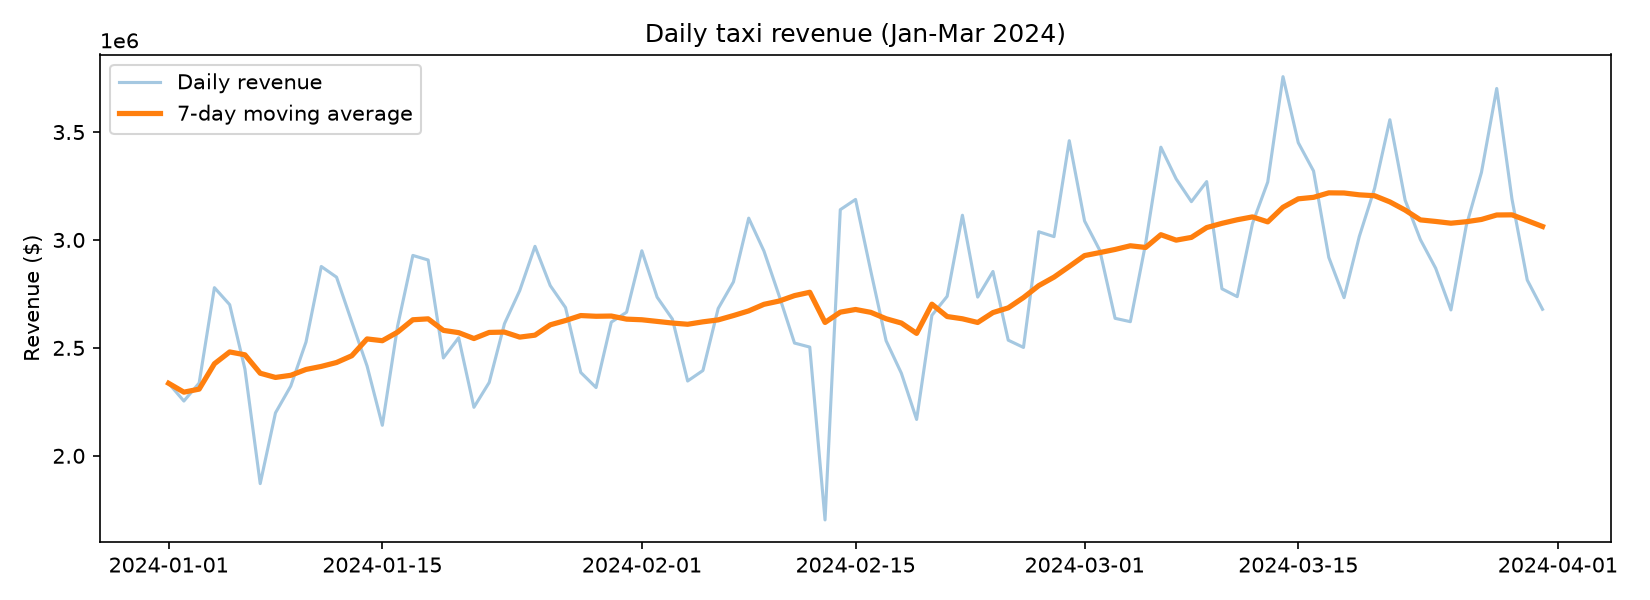
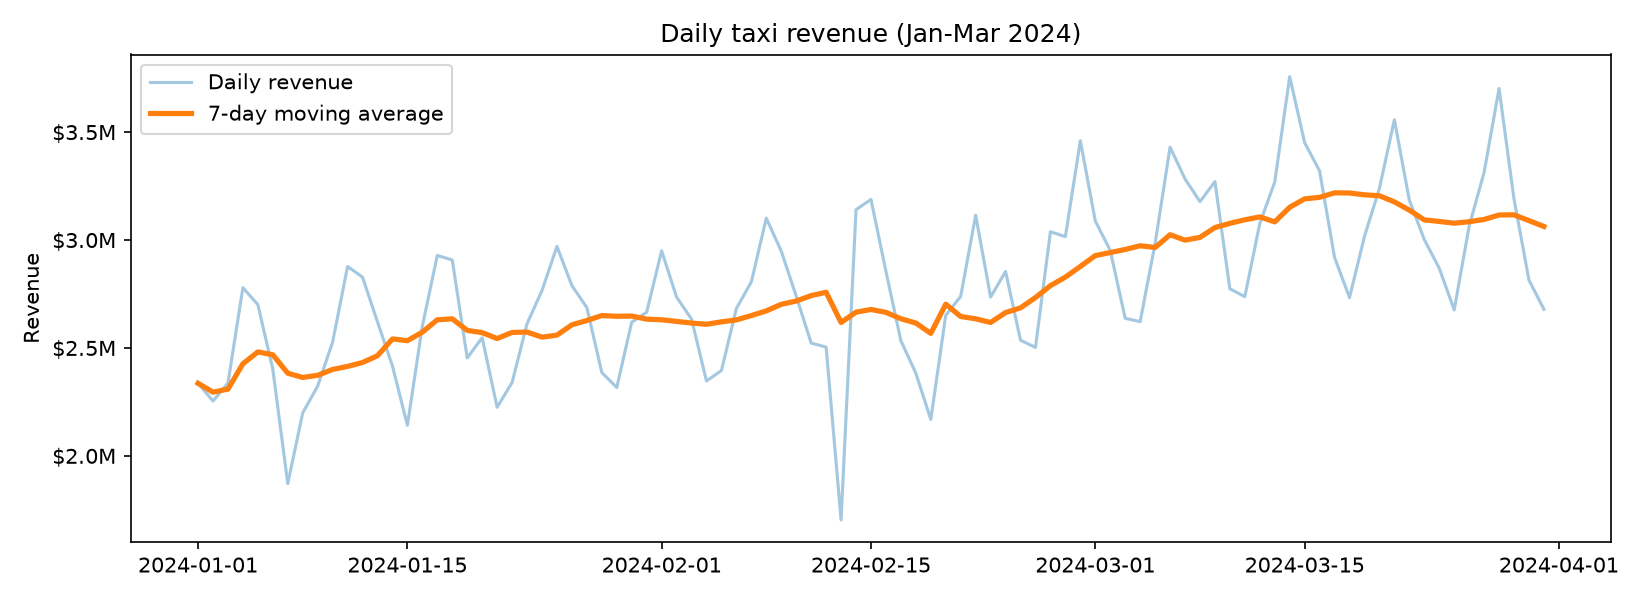
modified the plots

diff --git a/analysis/plot_charts.py b/analysis/plot_charts.py
@@ -1,9 +1,11 @@
 import pathlib
 import pandas as pd
 import matplotlib.pyplot as plt
+from matplotlib.ticker import FuncFormatter
 
 pathlib.Path("results").mkdir(exist_ok=True)
 
+millions = FuncFormatter(lambda x, _: f"${x/1e6:.1f}M")
 
 def demand_heatmap():
     df = pd.read_csv("results/06_demand_heatmap.csv")
@@ -30,8 +32,9 @@ def daily_revenue():
     fig, ax = plt.subplots(figsize=(11, 4))
     ax.plot(df["date"], df["revenue"], alpha=0.4, label="Daily revenue")
     ax.plot(df["date"], df["moving_avg_7d"], linewidth=2.5, label="7-day moving average")
+    ax.yaxis.set_major_formatter(millions) 
     ax.set_title("Daily taxi revenue (Jan-Mar 2024)")
-    ax.set_ylabel("Revenue ($)")
+    ax.set_ylabel("Revenue")
     ax.legend()
     plt.tight_layout()
     plt.savefig("results/daily_revenue.png", dpi=150)
@@ -43,8 +46,9 @@ def top_zones():
 
     fig, ax = plt.subplots(figsize=(9, 5))
     ax.barh(top["zone"], top["revenue"])
+    ax.xaxis.set_major_formatter(millions)
     ax.set_title("Top 10 pickup zones by revenue (Jan-Mar 2024)")
-    ax.set_xlabel("Revenue ($)")
+    ax.set_xlabel("Revenue")
     plt.tight_layout()
     plt.savefig("results/top_zones.png", dpi=150)
     plt.close()
